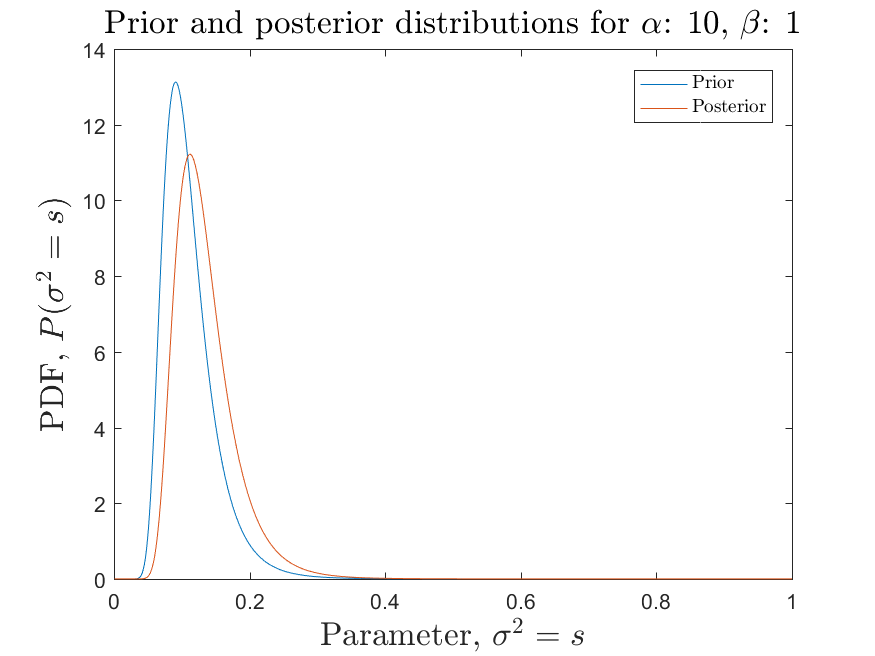
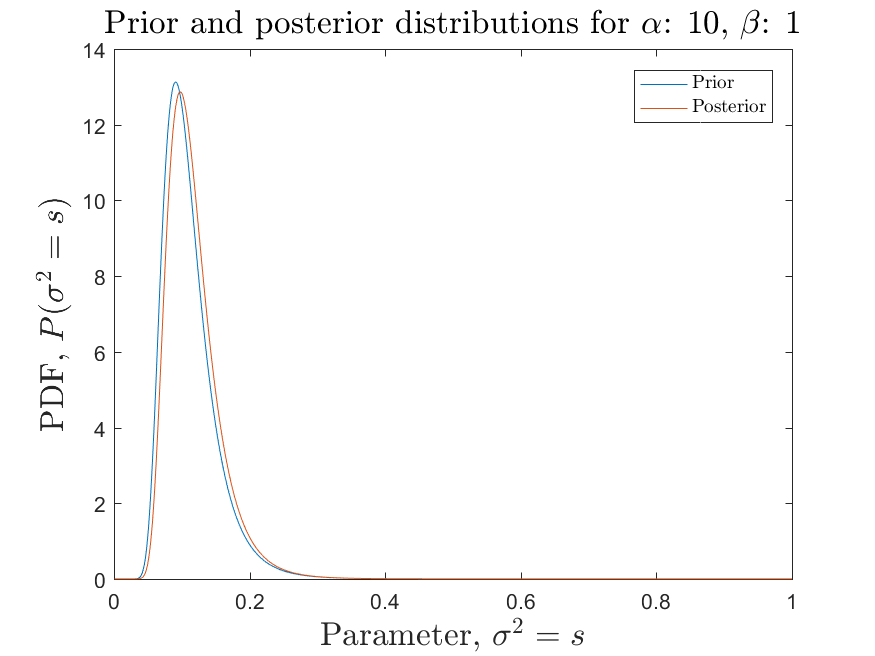
\sigma_MAP calculations

diff --git a/Assignment_1/paper/main.tex b/Assignment_1/paper/main.tex
@@ -129,12 +129,45 @@ The code implementation can be found in the enclosed folder \verb|code|.
 \sigma^2_{MAP}=\frac{\beta+\sigma^2_{MLE}}{\alpha+2}
 \end{equation}
 
+
 where
+
+$\sigma^2_{MAP}$ derivation:
+
+\begin{equation}
+\sigma^2_{MAP}= \argmax_{\sigma^2=s}  p(s| x_1,...,x_n;\alpha,\beta)
+\end{equation}
+
+To find this we use the derivative
+
+\begin{equation}
+\begin{array}{rcl}
+\frac{\partial }{\partial s} Gam(s|a,b) & = & \frac{\partial}{\partial s} \frac{b^a}{\Gamma(a)}s^{-a-1}\exp{\left(-\frac{b}{s}\right)} \\
+& = & -\frac{b^as^{-a-3}e^{-\frac{b}{s}}(-b+as+s)}{\Gamma(a)}
+\end{array}
+\end{equation}
+
+and we want to check when this is zero,
+
+\begin{equation}
+\frac{\partial}{\partial s}Gam(s|a,b) = 0
+\end{equation}
+
+we have two uninteresting cases, i.e. $s=0$ and $s\rightarrow \inf$. The only non-trivial case is when,
+
+\begin{equation}
+-b+(a+1)s=0 \Rightarrow s = \frac{b}{a+1}.
+\end{equation}
+
+Using $b=\beta+\frac{1}{2}\sigma^2_{MLE}$ and $a = \alpha +1$ we get
+
+\begin{equation}
+\sigma^2_{MAP;\alpha,\beta} = \frac{\beta + \frac{1}{2}\sigma^2_{MLE}}{\alpha+2}
+\end{equation}
 
 \begin{equation}
 \sigma^2_{MLE}=\frac{1}{2}\left(x-\mu\right)^{T}\left(x-\mu\right)
 \end{equation}
-
 
 so we get,
 
@@ -144,6 +177,7 @@ so we get,
 \alpha=10, \beta = 1 \Rightarrow & \sigma^2_{MAP} & = & 0.1323
 \end{array}
 \end{equation}
+
 
 \begin{equation}
 B_{factor}=\frac{\sigma^2_{MAP;1}}{\sigma^2_{MAP;2}}=4

diff --git a/Assignment_1/main2_2.m b/Assignment_1/main2_2.m
@@ -17,7 +17,7 @@ load('dataset1.mat');
 [mu, sigma] = sge(x);
 
 prior_distribution = @(s,alpha,beta) beta.^alpha/gamma(alpha)*s.^(-alpha-1).*exp(-beta./s);
-posterior_distribution =@(s,alpha,beta) prior_distribution(s,alpha+1,beta+sigma^2);
+posterior_distribution =@(s,alpha,beta) prior_distribution(s,alpha+1,beta+1/2*sigma^2);
 
 
 x_axis_1 = 0:0.01:10;

diff --git a/Assignment_1/paper/settings.tex b/Assignment_1/paper/settings.tex
@@ -64,3 +64,4 @@
 
 \setlength\parindent{0pt}
 
+\DeclareMathOperator*{\argmax}{arg\,max}
